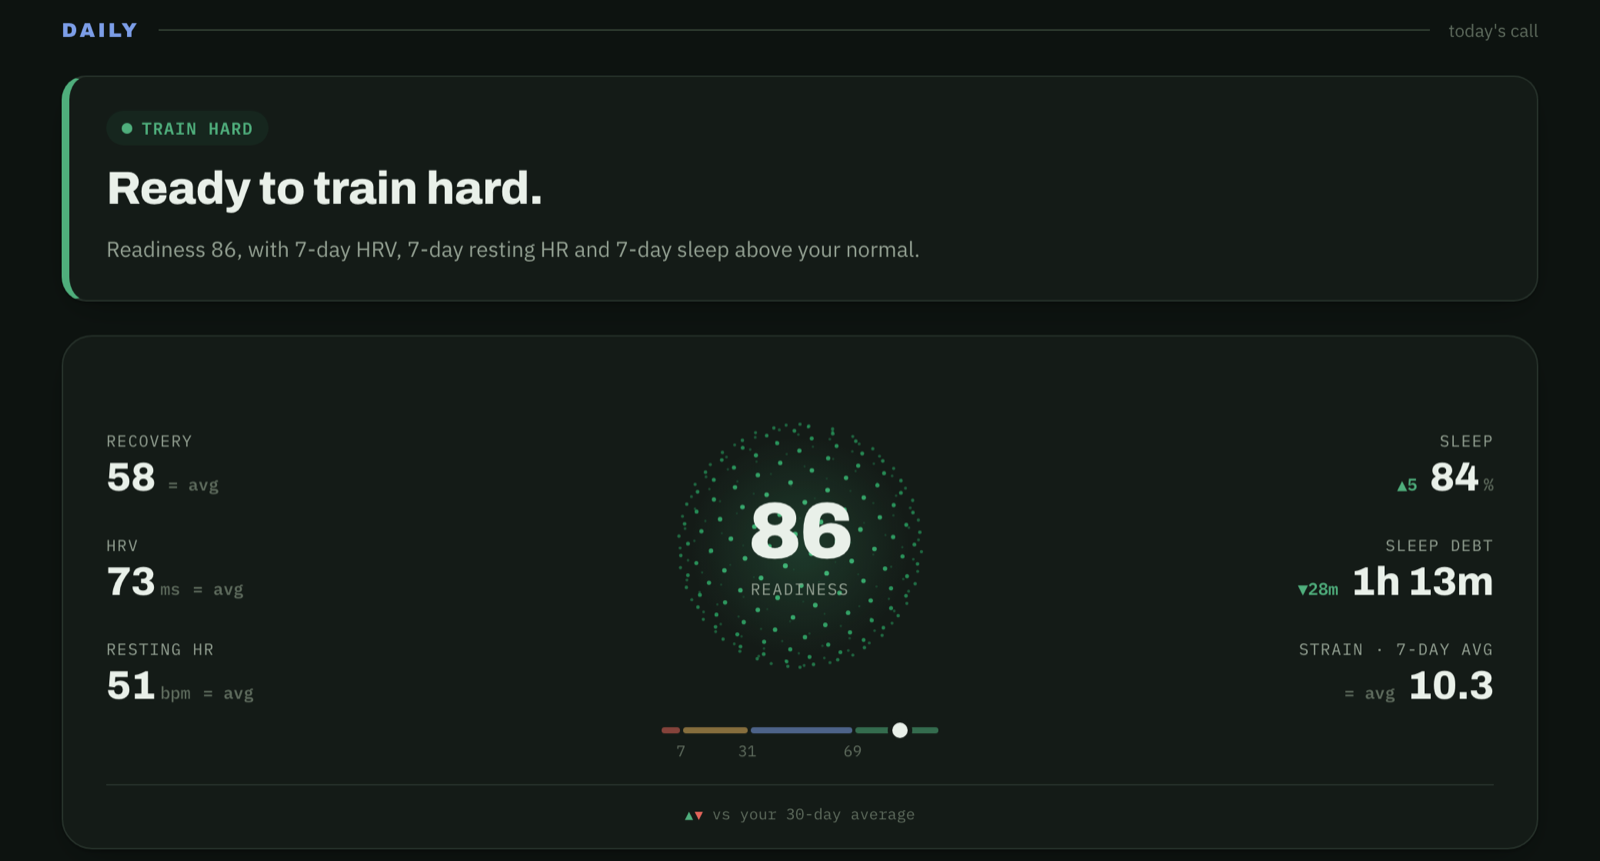
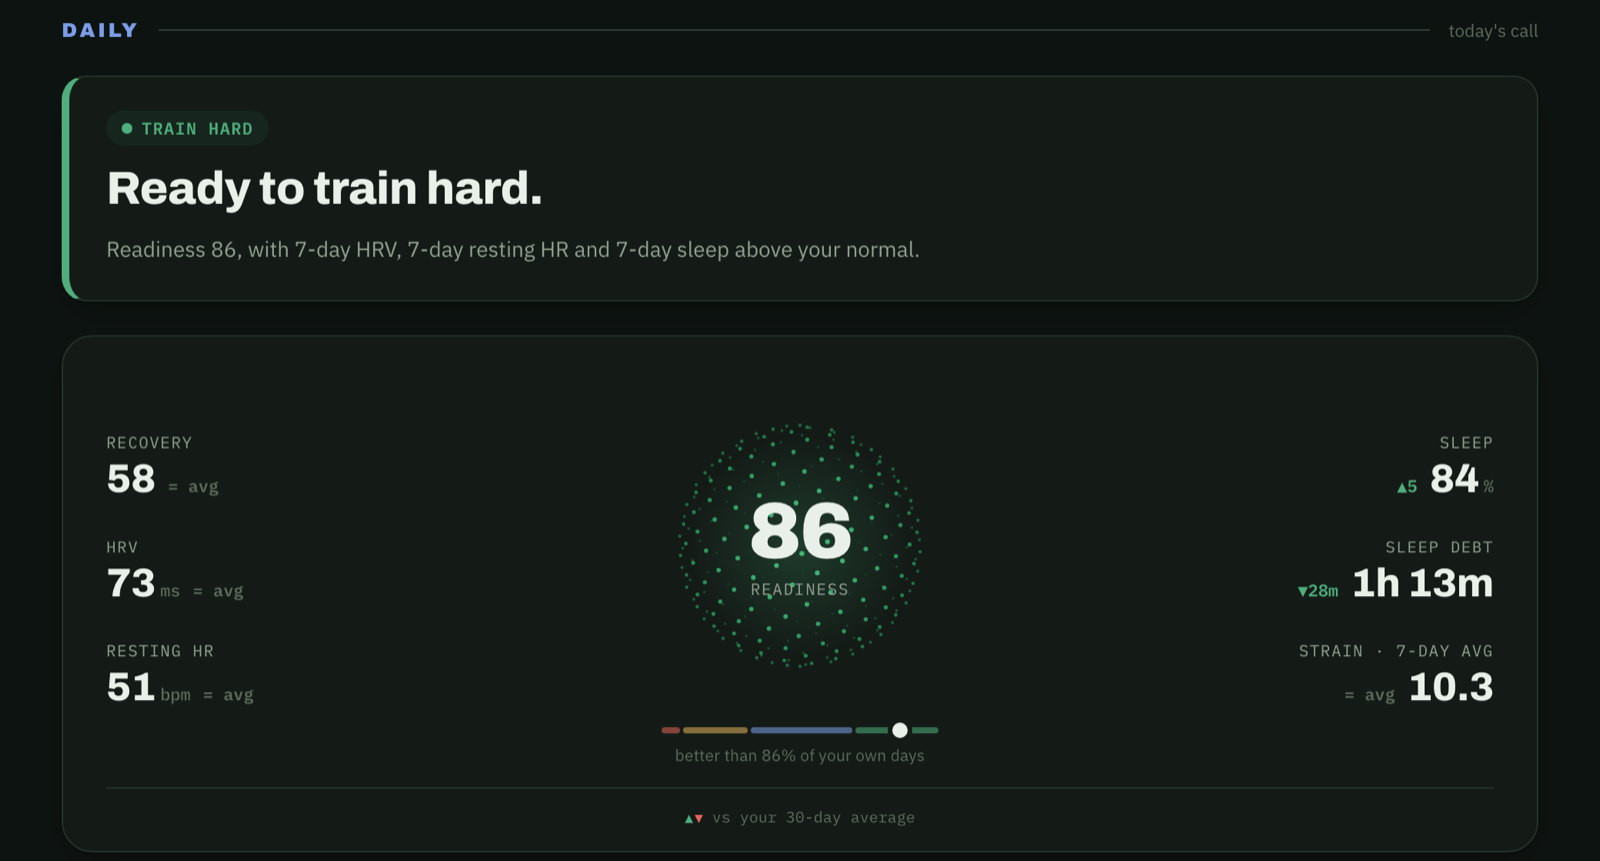
Say what the readiness scale means instead of printing its cut-offs
7, 31 and 69 on the bar read like arbitrary numbers, which is the opposite of
what they are. The bar now carries the one sentence that makes the whole scale
readable - "better than 74% of your own days" - and no cut-offs at all, the way
WHOOP's own recovery ring shows a colour without printing 34 and 67 on it.

The panel keeps the numbers, next to what each has actually meant for this
person: "Train hard 69+ / 32% of your days", "Rest under 7 / 6% of your days".
The note underneath now says why they are not round - they are the trials' own
half-a-standard-deviation lines converted to this scale, and they land close to
WHOOP's recovery colours at 34 and 67.

No thresholds moved.

diff --git a/dashboard_template.html b/dashboard_template.html
@@ -137,8 +137,7 @@
   .rs-seg{height:100%;border-radius:2px;opacity:.55;}
   .rs-seg.rest{background:var(--critical);} .rs-seg.easy{background:var(--warn);} .rs-seg.train{background:var(--accent);} .rs-seg.push{background:var(--good);}
   .rs-marker{position:absolute;top:50%;width:10px;height:10px;margin:-5px 0 0 -5px;border-radius:50%;background:var(--ink);box-shadow:0 0 0 3px var(--surface);transition:left .6s cubic-bezier(.2,.7,.2,1);}
-  .rs-ticks{position:relative;height:14px;margin-top:5px;font-family:"IBM Plex Mono",monospace;font-size:10px;color:var(--ink-faint);}
-  .rs-ticks span{position:absolute;transform:translateX(-50%);}
+  .rs-ticks{height:14px;margin-top:7px;text-align:center;font-size:10.5px;color:var(--ink-faint);letter-spacing:0.01em;}
   .hero-legend{grid-column:1 / -1;display:flex;justify-content:center;align-items:center;gap:8px;flex-wrap:wrap;
     padding-top:12px;border-top:1px solid var(--border);font-family:"IBM Plex Mono",monospace;font-size:10px;color:var(--ink-faint);}
   .hero-legend b{font-weight:600;font-size:9px;} .hero-legend .up{color:var(--good);} .hero-legend .down{color:var(--critical);margin-left:1px;}
@@ -412,7 +411,7 @@
       </div>
       <div class="ready-scale" id="readyScale" aria-hidden="true">
         <div class="rs-track"><span class="rs-seg rest"></span><span class="rs-seg easy"></span><span class="rs-seg train"></span><span class="rs-seg push"></span><span class="rs-marker" id="rsMarker"></span></div>
-        <div class="rs-ticks"><span id="rsT1">—</span><span id="rsT2">—</span><span id="rsT3">—</span></div>
+        <div class="rs-ticks"><span id="rsBand">—</span></div>
       </div>
     </div>
     <div class="flank right" id="flankLoad"></div>
@@ -740,7 +739,8 @@ function renderDecision(){
     $('readyScale').querySelectorAll('.rs-seg').forEach((el, i) => { el.style.flex = String(widths[i]); });
     const pos = v => ((clamp(v, lo, hi) - lo) / (hi - lo) * 100) + '%';
     $('rsMarker').style.left = pos(R.score);
-    [['rsT1', L.rest], ['rsT2', L.train], ['rsT3', L.above]].forEach(([id, v]) => { $(id).style.left = pos(v); $(id).textContent = v; });
+    // the cut-offs are not printed on the bar — the one sentence that makes the scale readable is
+    $('rsBand').textContent = `better than ${R.score}% of your own days`;
     $('readyScale').hidden = false;
   } else {
     $('orbNum').textContent = '—';
@@ -1654,12 +1654,17 @@ window.addEventListener('resize', ()=>{ renderExplorer(); renderStageChart(); re
         out.push(R[k] ? row(label, markerValue(k, R[k]), markerRange(k, R[k]), cls(k)) : row(label, '—', 'not enough data', ''));
       if(R.last_night) out.push(row('Last night · all three', `${R.last_night.score}`, '50 = your median', R.last_night.state === 'below' ? 'flagged' : R.last_night.state === 'above' ? 'good' : ''));
       out.push(row('Readiness', `${R.score}`, '50 = your median day', 'current'));
-      out.push(section('Today’s plan', 'readiness'));
+      out.push(section('Today’s plan', 'how often this comes up'));
       const cur = calc.plan, L2 = R.lines;
-      out.push(row('Train hard', `${L2.above}+`, '', cur === 'hard' ? 'current' : ''));
-      out.push(row('Train as planned', `${L2.train}–${L2.above - 1}`, '', cur === 'moderate' ? 'current' : ''));
-      out.push(row('Go easy', `${L2.rest}–${L2.train - 1}`, '', cur === 'easy' ? 'current' : ''));
-      out.push(row('Rest', `under ${L2.rest}`, '', cur === 'rest' ? 'current' : ''));
+      // the cut-offs on their own look like random numbers, so each one is shown as what it has
+      // actually meant for you: the share of your scored days that landed in that band
+      const all = DATA.full_series.readiness || [];
+      const share = (lo, hi) => !all.length ? '' :
+        `${Math.round(100 * all.filter(p => p.v >= lo && p.v <= hi).length / all.length)}% of your days`;
+      out.push(row('Train hard', `${L2.above}+`, share(L2.above, 100), cur === 'hard' ? 'current' : ''));
+      out.push(row('Train as planned', `${L2.train}–${L2.above - 1}`, share(L2.train, L2.above - 1), cur === 'moderate' ? 'current' : ''));
+      out.push(row('Go easy', `${L2.rest}–${L2.train - 1}`, share(L2.rest, L2.train - 1), cur === 'easy' ? 'current' : ''));
+      out.push(row('Rest', `under ${L2.rest}`, share(0, L2.rest - 1), cur === 'rest' ? 'current' : ''));
       out.push(section('Also checked', 'today / limit'));
       if(R.breathing) out.push(row('Breathing rate · last night', `${one(R.breathing.value)} /min`, `rest at ${one(R.breathing.limit)}+`, R.breathing.flagged ? 'flagged' : ''));
       out.push(row('Hard days in a row', `${R.hard_days_in_a_row}`, `limit ${R.max_hard_days}`, R.hard_days_in_a_row >= R.max_hard_days ? 'flagged' : ''));
@@ -1673,7 +1678,7 @@ window.addEventListener('resize', ()=>{ renderExplorer(); renderStageChart(); re
       out.push(row('Asleep', fmtHM(L.asleep_h), L.nap_h ? `+ ${fmtHM(L.nap_h)} nap` : '', ''));
       out.push(row('WHOOP recovery', `${Math.round(L.recovery)}`, '', ''));
     }
-    out.push(`<div class="rp-note">Each measure is compared with your previous 4 weeks (updated each Monday) — the 7-day average against your 7-day averages, last night against your single nights — and all six are averaged equally. The average is then placed among your own days, so the score reads like a ranking: 50 is a median day for you, 69+ happens on about 3 days in 10, under 7 on about 1 day in 15. Breathing rate 3+ above your usual means rest; after 2 hard days in a row, go easy. The plan is one session a day — once you have trained, it is done.</div>`);
+    out.push(`<div class="rp-note">Each measure is compared with your previous 4 weeks (updated each Monday) — the 7-day average against your 7-day averages, last night against your single nights — and all six are averaged equally. The average is then placed among your own days, so the score reads like a ranking: 50 is a median day for you. The four lines are not round numbers because they are not chosen — they are the training trials' own cut-offs (half a standard deviation either side of your normal, and 1.5 below it) converted to this scale. They land close to WHOOP's own recovery colours, which change at 34 and 67. Breathing rate 3+ above your usual means rest; after 2 hard days in a row, go easy. The plan is one session a day — once you have trained, it is done.</div>`);
     $('rpRows').innerHTML = out.join('');
   }
 
